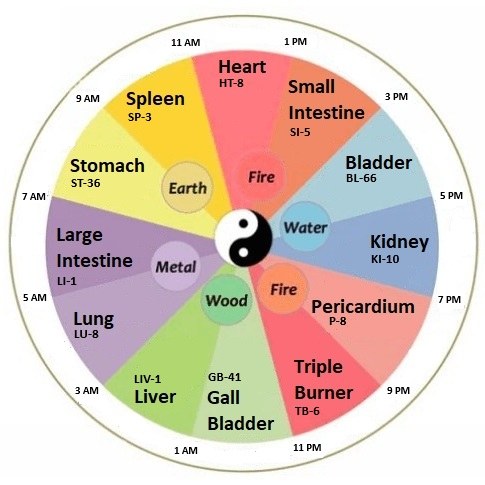
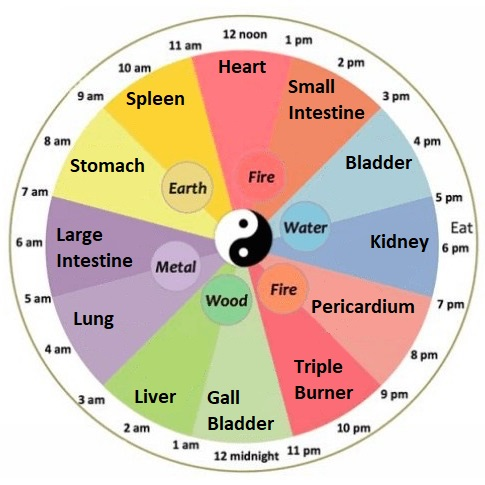
Update terminology: replace 'horary point' with generic terms where KI-3 substitution applies, expand methods screenshots spacing, improve watch functionality description, and update Chinese Organ Clock image

diff --git a/research-paper.html b/research-paper.html
@@ -127,16 +127,15 @@
         .methods-screenshots {
             text-align: center;
             margin: 30px 0;
-        }
+            width: 100%;
         
         .methods-screenshots table {
-            width: auto;
+            width: 100%;
             max-width: 100%;
             margin: 0 auto;
-        }
-        
-        .methods-screenshots img {
-            width: 250px;
+            border-spacing: 20px;
+            border-collapse: separate;
+            width: 300px;
             max-width: 100%;
             height: auto;
             object-fit: contain;
@@ -145,9 +144,8 @@
         }
         
         .methods-screenshots td {
-            width: auto;
-            padding: 10px;
-            text-align: center;
+            width: 33.33%;
+            padding: 20px;
             vertical-align: top;
             border: none;
         }
@@ -416,6 +414,7 @@
         <h1>Jet Lag Pro: A Mobile Platform for Evaluating Chronoacupuncture as a Tool for Jet Lag Management</h1>
         
         <p style="text-align: center; margin-bottom: 2px;"><strong>Steven Schram PhD, DC, LAc</strong></p>
+        <p style="text-align: center; margin-bottom: 20px;"><strong>Affiliations:</strong> Independent researcher</p>
         <p style="text-align: center; margin-bottom: 30px;">© 2025 Steven Schram. All rights reserved.</p>
         
         <h2>Abstract</h2>
@@ -452,7 +451,7 @@
 
         
 		<div style="text-align: center; margin: 30px auto; max-width: 800px;">
-            <img src="assets/images/Wheel-Complex.jpg" alt="Chinese Organ Clock" style="max-width: 50%; height: auto; display: block; margin: 0 auto; border-radius: 8px; box-shadow: 0 4px 8px rgba(0,0,0,0.1);">
+            <img src="assets/images/Wheel-Simple.jpg" alt="Chinese Organ Clock" style="max-width: 50%; height: auto; display: block; margin: 0 auto; border-radius: 8px; box-shadow: 0 4px 8px rgba(0,0,0,0.1);">
             <p style="margin: 10px auto 0 auto; text-align: center; font-style: italic; color: #666;"><strong>Figure 1:</strong> Chinese Organ Clock Visualization</p>
         </div>
 
@@ -541,7 +540,7 @@
 
 
         <h2>Methods</h2>
-		<p>The mobile application provides users with timing and instructions to stimulate specific horary points based on the destination time. Ideally starting at the airport (or anytime thereafter), users select the destination. The app immediately identifies the first active horary point matching the destination time. This process is illustrated below.</p>
+		<p>The mobile application provides users with timing and instructions to stimulate specific points based on the destination time. Ideally starting at the airport (or anytime thereafter), users select the destination. The app immediately identifies the first active point matching the destination time. This process is illustrated below.</p>
 
 		<div class="methods-screenshots">
             <table>
@@ -570,7 +569,8 @@
             </table>
         </div>
 
-        <p>Scheduled reminders pop up at appropriate times prompting the user to complete a full 24-hour cycle. The messages are persistent and remain on the user's phone (or watch) until clicked. When clicked, the user is brought to the Points Screen (#3) of the mobile app which displays the correct horary point image beside a looping video showing how to stimulate the point. Written instructions are provided below the images. </p>
+        <p>Scheduled reminders pop up at appropriate times prompting the user to complete a full 24-hour cycle. The reminders are persistent and remain on the user's phone (or watch) until clicked. When clicked, the user is shown the correct image beside a looping video showing how to stimulate the point on the Points Screen (#3). The watch also provides a "show me" option that displays the point image. Written instructions are provided above and below the phone images.</p>
+        <p>All point images and figures in this paper are original creations or author-modified variants of generic/public domain anatomical illustrations, with point locations added. The Chinese Organ Clock visualization (Figure 1) is an original image by the author and based on widely-used traditional representations in the public domain.</p>
 
         <div style="text-align: center; margin: 30px 0;">
             <h2>Point Images</h2>
@@ -663,7 +663,9 @@
 
 <p>A final step when the trip ends is the scheduling of a notification for 2 days later to remind the user to complete the website survey. This survey is a streamlined assessment based on the Liverpool Jet Lag Questionnaire's core symptom domains (listed below), using 1-5 severity ranges adapted for real-world mobile use as a single post-travel evaluation.</p>
 
-<p>Participation in the survey was voluntary and anonymous. By submitting the survey, participants provided implicit consent to have their anonymized data used for research purposes, consistent with the privacy disclosure available on the website. Access to the survey required a direct link from the app to guarantee authenticity.</p>
+<p>Participation in the survey was voluntary and anonymous. Participants had full agency to choose whether to participate, and could discontinue at any time. By submitting the survey, participants provided explicit consent to have their anonymized data used for research purposes, consistent with the privacy disclosure available on the website. Access to the survey required a direct link from the app to guarantee authenticity.</p>
+
+<p><strong>Ethics Statement:</strong> This research was conducted as an independent study without institutional affiliation and therefore did not require Institutional Review Board (IRB) approval. The study involved anonymous, voluntary survey participation with no collection of personally identifiable information. All data were collected anonymously with explicit participant consent obtained through acknowledgment of the privacy policy and research purpose. The research design poses minimal risk to participants, as it involves self-reported symptom data from voluntary acupressure practice. All procedures were conducted in accordance with ethical principles for research involving human participants, including voluntary participation, anonymity, and informed consent.</p>
 
 			
              <h2 style="text-align: left;">Data Collected</h2>
@@ -1290,11 +1292,10 @@
                                                    img.src.includes('research-photo-4.png');
                         
                         if (isMethodsScreenshot) {
-                            // App screenshots - fixed 150px width, maintain aspect ratio
-                            targetWidth = 150;
-                            targetHeight = (tempImg.naturalHeight / tempImg.naturalWidth) * 150;
-                            finalStyle = 'width: 150px; height: auto; display: block; margin: 0 auto; border: none;';
-                        } else if (img.src.includes('LU-8.jpg') || img.src.includes('LI-1.jpg') || img.src.includes('ST-36.jpg') || 
+                            // App screenshots - larger width to expand to margins, maintain aspect ratio
+                            targetWidth = 250;
+                            targetHeight = (tempImg.naturalHeight / tempImg.naturalWidth) * 250;
+                            finalStyle = 'width: 100%; max-width: 250px; height: auto; display: block; margin: 0 auto; border: none;';
                                   img.src.includes('SP-3.jpg') || img.src.includes('HT-8.jpg') || img.src.includes('SI-5.jpg') ||
                                   img.src.includes('BL-66.jpg') || img.src.includes('KI-10.jpg') || img.src.includes('KI-3.jpg') ||
                                   img.src.includes('PC-8.jpg') || img.src.includes('SJ-6.jpg') || img.src.includes('GB-41.jpg') || 
@@ -1423,19 +1424,21 @@
                             thead.style.padding = '0';
                         }
                     }
-                    // Methods screenshots table - 450px width
+                    // Methods screenshots table - expanded to margins with more spacing
                     else if (table.closest('.methods-screenshots') || 
                         (table.querySelector('img') && table.querySelector('img').src.includes('research-photo'))) {
-                        table.style.width = '450px';
-                        table.style.maxWidth = '450px';
-                        table.style.tableLayout = 'fixed';
+                        table.style.width = '90%';
+                        table.style.maxWidth = '90%';
+                        table.style.tableLayout = 'auto';
                         table.style.marginLeft = 'auto';
                         table.style.marginRight = 'auto';
-                        // Set cell widths to 150px
+                        table.style.borderSpacing = '15px';
+                        table.style.borderCollapse = 'separate';
+                        // Set cell widths to 33.33% each with more padding
                         const cells = table.querySelectorAll('td');
                         cells.forEach(cell => {
-                            cell.style.width = '150px';
-                            cell.style.border = 'none';
+                            cell.style.width = '33.33%';
+                            cell.style.padding = '15px';
                         });
                     }
                     // Point images table - 480px width (6 columns x 80px) - tight spacing
@@ -1735,14 +1738,15 @@
             margin: 0 !important;
             padding: 0 !important;
         }
-        /* Methods screenshots table - fixed width to fit within margins (3 columns x 150px = 450px) */
+        /* Methods screenshots table - expanded to margins with more spacing */
         .methods-screenshots table {
-            width: 450px !important;
-            max-width: 450px !important;
+            width: 90% !important;
+            max-width: 90% !important;
             margin-left: auto !important;
             margin-right: auto !important;
-            table-layout: fixed !important;
-        }
+            table-layout: auto !important;
+            border-spacing: 15px !important;
+            border-collapse: separate !important;
         /* Point images table - fixed width to fit within margins (6 columns x 80px = 480px) */
         table[style*="table-layout: fixed"] {
             width: 480px !important;
@@ -1769,10 +1773,10 @@
         /* Methods screenshots cells */
         .methods-screenshots td {
             border: none !important;
-            width: 150px !important;
+            width: 33.33% !important;
             text-align: center !important;
             vertical-align: top !important;
-            padding: 10px !important;
+            padding: 15px !important;
         }
         /* Point images - exact 80x80px square */
         table[style*="table-layout: fixed"] img {
@@ -1786,11 +1790,10 @@
             display: block !important;
             margin: 0 auto !important;
         }
-        /* Methods screenshots - fixed 150px width */
+        /* Methods screenshots - larger width, expands to margins */
         .methods-screenshots img {
-            width: 150px !important;
-            max-width: 150px !important;
-            height: auto !important;
+            width: 100% !important;
+            max-width: 100% !important;
             object-fit: contain !important;
             display: block !important;
             margin: 0 auto !important;
@@ -1846,19 +1849,21 @@
             margin: 30px 0;
         }
         .methods-screenshots table {
-            width: 450px !important;
-            max-width: 450px !important;
+            width: 90% !important;
+            max-width: 90% !important;
             margin-left: auto !important;
             margin-right: auto !important;
-            table-layout: fixed !important;
+            table-layout: auto !important;
+            border-spacing: 15px !important;
+            border-collapse: separate !important;
         }
         .methods-screenshots td {
-            width: 150px !important;
-            padding: 10px !important;
+            width: 33.33% !important;
+            padding: 15px !important;
         }
         .methods-screenshots img {
-            width: 150px !important;
-            max-width: 150px !important;
+            width: 100% !important;
+            max-width: 100% !important;
             height: auto !important;
             object-fit: contain !important;
             display: block !important;
